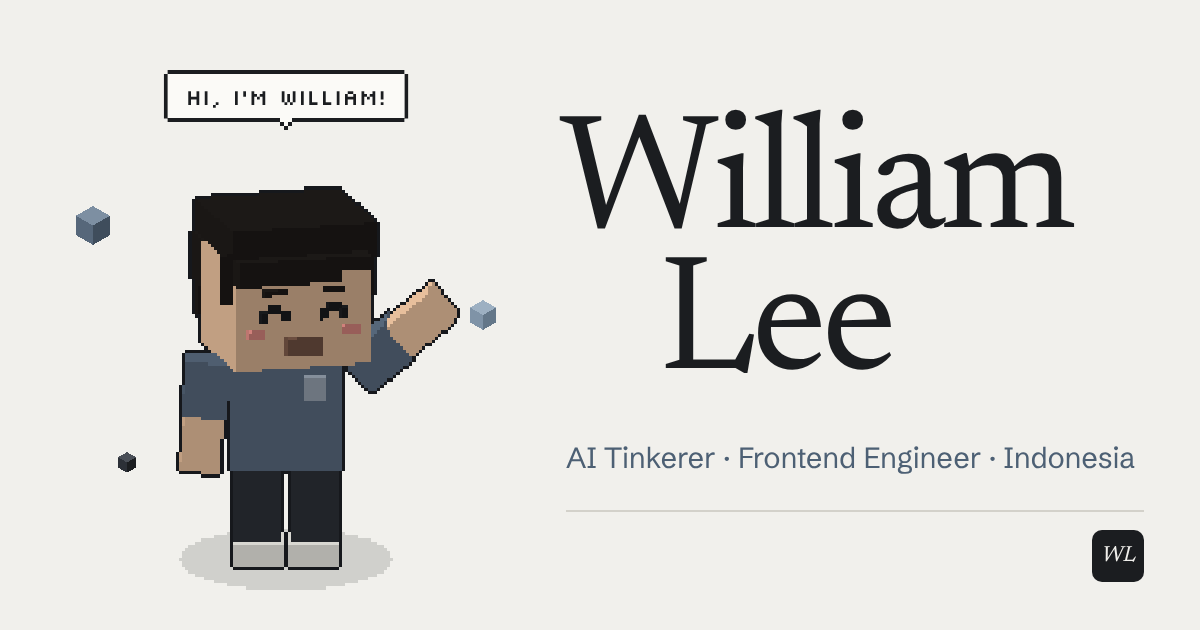
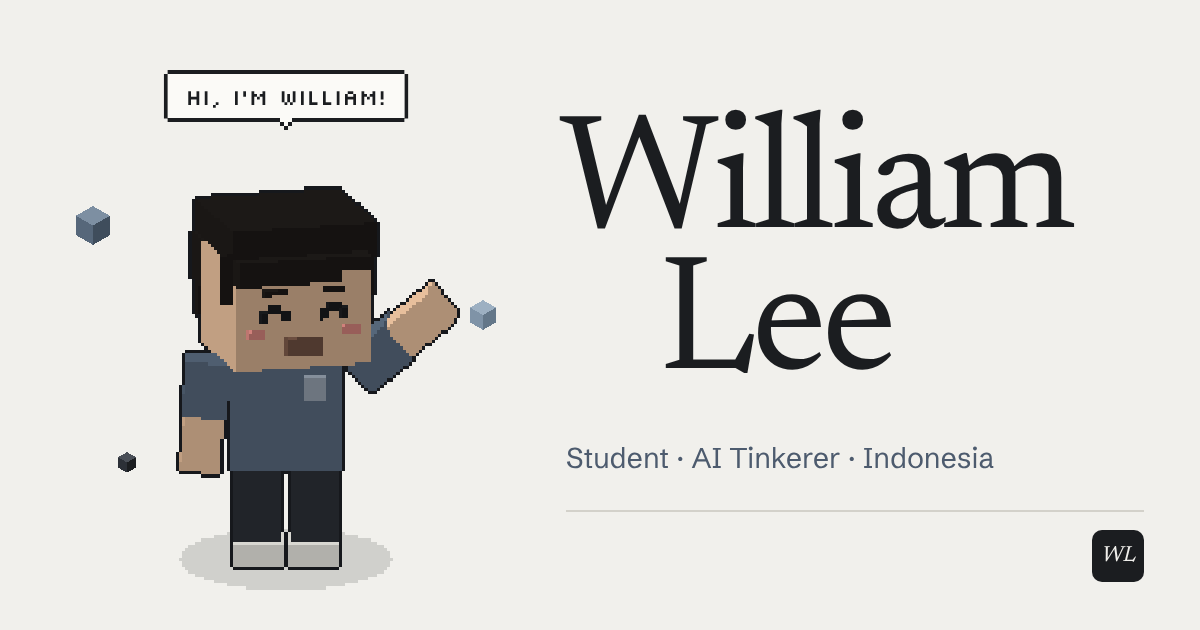
Describe William as a student who tinkers with AI
New About text, tagline 'Student · AI Tinkerer · Indonesia', updated
site and About descriptions, and the link preview image to match.

Claude-Session: https://claude.ai/code/session_0152H9wKyC785DVveNDVDRYN

Changed region(s): [[0.4625, 0.6937, 0.9558, 0.754]]

diff --git a/data/site.js b/data/site.js
@@ -3,11 +3,11 @@
 
 export const site = {
   name: "William Lee",
-  tagline: "AI Tinkerer · Frontend Engineer · Indonesia",
+  tagline: "Student · AI Tinkerer · Indonesia",
   intro:
     "I build interfaces for the web, then spend the rest of my time poking at AI models to see what they can actually do.",
   description:
-    "William Lee is a frontend engineer from Indonesia who tinkers with AI. Selected work, skills and contact.",
+    "William Lee is a student from Indonesia who tinkers with AI. Selected work, skills and contact.",
 
   // Your site's address once it's online, e.g. "https://williamlee.my.id".
   // Link previews (WhatsApp, LinkedIn, X) need it to find the preview image.
@@ -17,7 +17,7 @@ export const site = {
     // Shown large, like a pull quote.
     lead: "I like building small things that feel finished.",
     body:
-      "I'm a frontend engineer and a student at Binus. I'd rather finish one small project properly than start ten big ones: the sound when a button is pressed, the animation that makes a page feel alive, a layout that still works on a cheap phone. Those details are where I spend my time. I also use AI tools like Claude and Gemini every day, and I like finding out what they can really do. That's how things like Bingolah, a classroom quiz game, and Loop Quest, a pixel game that explains C loops, came to be.",
+      "I'm a student at Binus who likes to tinker with AI and turn ideas into things people can use. I'd rather finish one small project properly than start ten big ones: the sound when a button is pressed, the animation that makes a page feel alive, a layout that still works on a cheap phone. I use AI tools like Claude and Gemini every day, and I like finding out what they can really do. That's how Bingolah, a classroom quiz game, and Loop Quest, a pixel game that explains C loops, came to be.",
   },
 
   skills: [

diff --git a/app/about/page.jsx b/app/about/page.jsx
@@ -3,7 +3,7 @@ import { site } from "@/data/site";
 
 export const metadata = {
   title: "About",
-  description: `About ${site.name}, a frontend engineer from Indonesia who tinkers with AI.`,
+  description: `About ${site.name}, a student from Indonesia who tinkers with AI.`,
 };
 
 export default function AboutPage() {
